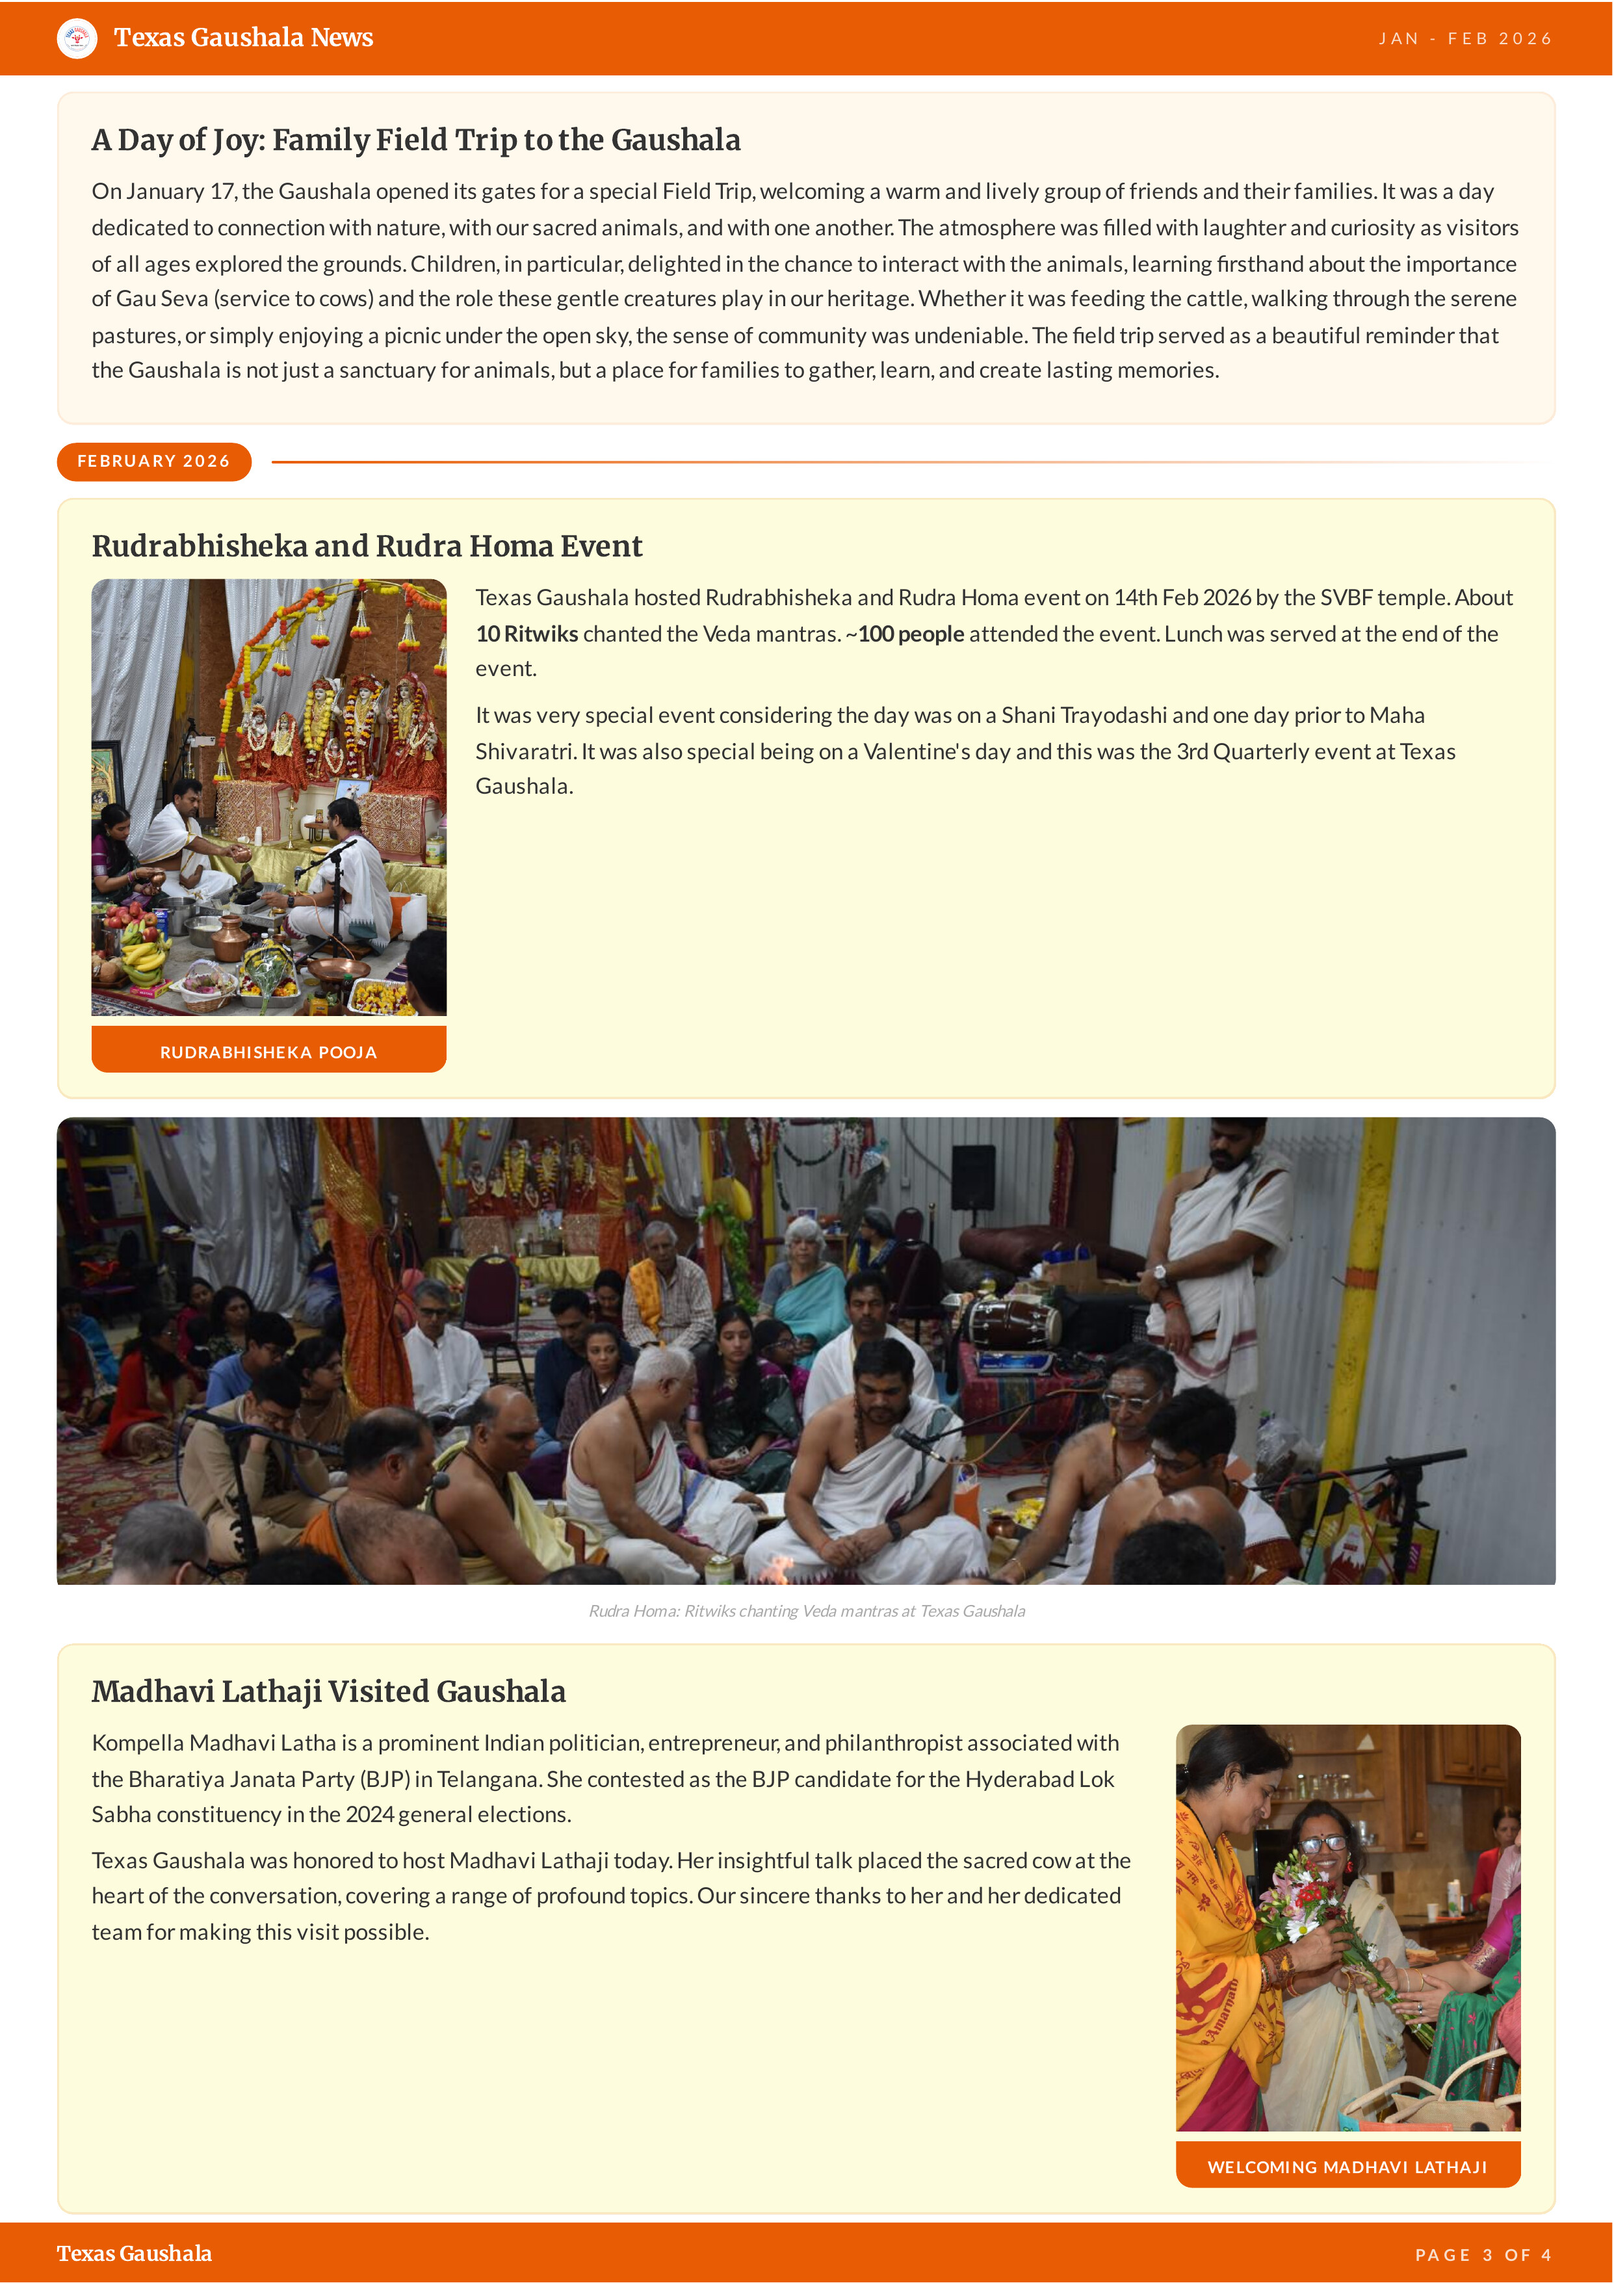
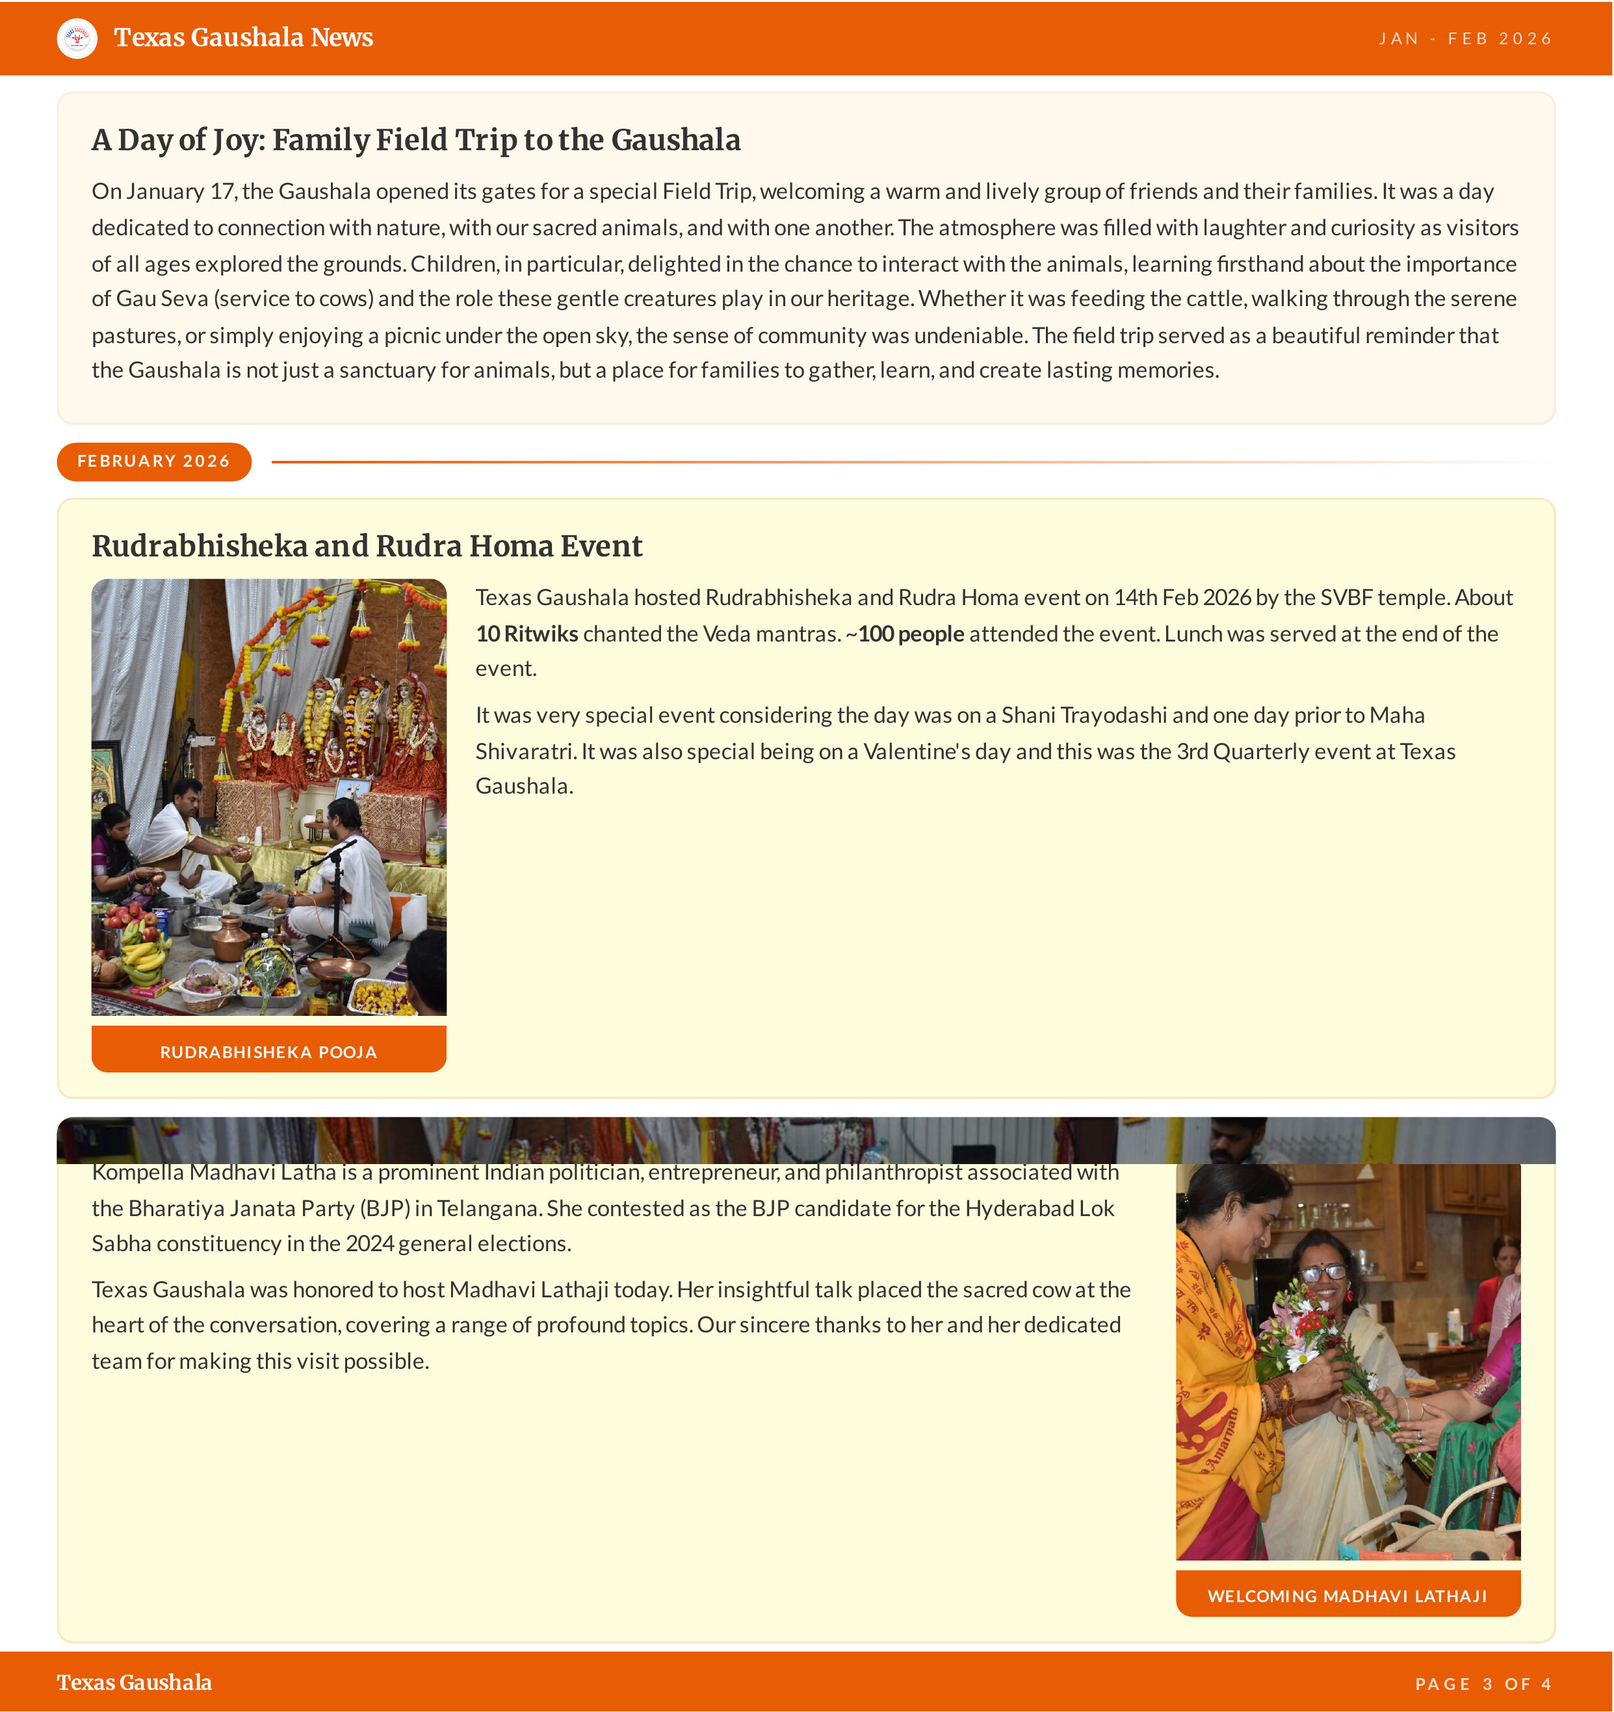
fix: remove Rudra group photo from page 3, crop image, reposition all overlays

diff --git a/index.html b/index.html
@@ -158,35 +158,33 @@ The morning was dedicated to the time-honored tradition of Gau Pooja. Members of
   <img class="bg" src="images_new/page-3.jpg">
 
   <!-- P3 Images -->
-  <div class="iz" id="img-logo-3" data-label="Logo P3" style="left:1.5%;top:0.4%;width:2.5%;height:2.5%;" onclick="si(this)"><span class="lb">Logo</span></div>
-  <div class="iz" id="img-rudra-ceremony" data-label="Rudra Ceremony" style="left:4%;top:25.5%;width:25%;height:20%;" onclick="si(this)"><span class="lb">Rudra Ceremony</span></div>
-  <div class="iz" id="img-rudra-group" data-label="Rudra Homa Group" style="left:2.5%;top:51%;width:95%;height:25%;" onclick="si(this)"><span class="lb">Rudra Group</span></div>
-  <div class="iz" id="img-madhavi-welcome" data-label="Madhavi Welcome" style="left:69%;top:81%;width:25%;height:14%;" onclick="si(this)"><span class="lb">Madhavi Welcome</span></div>
+  <div class="iz" id="img-logo-3" data-label="Logo P3" style="left:1.5%;top:0.5%;width:3%;height:3.5%;" onclick="si(this)"><span class="lb">Logo</span></div>
+  <div class="iz" id="img-rudra-ceremony" data-label="Rudra Ceremony" style="left:4%;top:34%;width:25%;height:27%;" onclick="si(this)"><span class="lb">Rudra Ceremony</span></div>
+  <div class="iz" id="img-madhavi-welcome" data-label="Madhavi Welcome" style="left:69%;top:73%;width:25%;height:19%;" onclick="si(this)"><span class="lb">Madhavi Welcome</span></div>
 
   <!-- P3 Text -->
-  <div class="tz" contenteditable="true" style="left:4.5%;top:0.7%;width:20%;height:2%;font-size:12px;font-weight:700;">Texas Gaushala News</div>
-  <div class="tz" contenteditable="true" style="left:82%;top:0.7%;width:16%;height:1.5%;font-size:8px;letter-spacing:2px;text-align:right;">JAN - FEB 2026</div>
-  <div class="tz" contenteditable="true" style="left:3%;top:5%;width:58%;height:2.5%;font-size:16px;font-weight:700;font-family:Georgia,serif;">A Day of Joy: Family Field Trip to the Gaushala</div>
-  <div class="tz" contenteditable="true" style="left:3%;top:7.5%;width:58%;height:11%;font-size:8.5px;line-height:1.55;font-family:Georgia,serif;">On January 17, the Gaushala opened its gates for a special Field Trip, welcoming a warm and lively group of friends and their families. It was a day dedicated to connection with nature, with our sacred animals, and with one another. The atmosphere was filled with laughter and curiosity as visitors of all ages explored the grounds. Children, in particular, delighted in the chance to interact with the animals, learning firsthand about the importance of Gau Seva (service to cows) and the role these gentle creatures play in our heritage. Whether it was feeding the cattle, walking through the serene pastures, or simply enjoying a picnic under the open sky, the sense of community was undeniable. The field trip served as a beautiful reminder that the Gaushala is not just a sanctuary for animals, but a place for families to gather, learn, and create lasting memories.</div>
+  <div class="tz" contenteditable="true" style="left:4.5%;top:1%;width:20%;height:3%;font-size:12px;font-weight:700;">Texas Gaushala News</div>
+  <div class="tz" contenteditable="true" style="left:82%;top:1%;width:16%;height:2%;font-size:8px;letter-spacing:2px;text-align:right;">JAN - FEB 2026</div>
+  <div class="tz" contenteditable="true" style="left:3%;top:6.5%;width:58%;height:3.5%;font-size:16px;font-weight:700;font-family:Georgia,serif;">A Day of Joy: Family Field Trip to the Gaushala</div>
+  <div class="tz" contenteditable="true" style="left:3%;top:10%;width:58%;height:15%;font-size:8.5px;line-height:1.55;font-family:Georgia,serif;">On January 17, the Gaushala opened its gates for a special Field Trip, welcoming a warm and lively group of friends and their families. It was a day dedicated to connection with nature, with our sacred animals, and with one another. The atmosphere was filled with laughter and curiosity as visitors of all ages explored the grounds. Children, in particular, delighted in the chance to interact with the animals, learning firsthand about the importance of Gau Seva (service to cows) and the role these gentle creatures play in our heritage. Whether it was feeding the cattle, walking through the serene pastures, or simply enjoying a picnic under the open sky, the sense of community was undeniable. The field trip served as a beautiful reminder that the Gaushala is not just a sanctuary for animals, but a place for families to gather, learn, and create lasting memories.</div>
   <!-- Field Trip photo -->
-  <div class="iz" id="img-field-trip" data-label="Field Trip" style="left:64%;top:4.5%;width:32%;height:14%;border-radius:6px;overflow:hidden;" onclick="si(this)">
+  <div class="iz" id="img-field-trip" data-label="Field Trip" style="left:64%;top:6%;width:32%;height:19%;border-radius:6px;overflow:hidden;" onclick="si(this)">
     <img class="rp" src="images_new/field-trip.jpg" style="width:100%;height:100%;object-fit:cover;object-position:center top;position:absolute;top:0;left:0;">
     <span class="lb">Field Trip</span>
   </div>
-  <div class="tz" contenteditable="true" style="left:3%;top:19%;width:12%;height:2%;font-size:8px;font-weight:700;letter-spacing:1px;">FEBRUARY 2026</div>
-  <div class="tz" contenteditable="true" style="left:4%;top:22.5%;width:50%;height:2.5%;font-size:16px;font-weight:700;font-family:Georgia,serif;">Rudrabhisheka and Rudra Homa Event</div>
-  <div class="tz" contenteditable="true" style="left:31%;top:25.5%;width:65%;height:12%;font-size:8.5px;line-height:1.55;font-family:Georgia,serif;">Texas Gaushala hosted Rudrabhisheka and Rudra Homa event on 14th Feb 2026 by the SVBF temple. About 10 Ritwiks chanted the Veda mantras. ~100 people attended the event. Lunch was served at the end of the event.
+  <div class="tz" contenteditable="true" style="left:3%;top:25.5%;width:12%;height:3%;font-size:8px;font-weight:700;letter-spacing:1px;">FEBRUARY 2026</div>
+  <div class="tz" contenteditable="true" style="left:4%;top:30%;width:50%;height:3.5%;font-size:16px;font-weight:700;font-family:Georgia,serif;">Rudrabhisheka and Rudra Homa Event</div>
+  <div class="tz" contenteditable="true" style="left:31%;top:34%;width:65%;height:16%;font-size:8.5px;line-height:1.55;font-family:Georgia,serif;">Texas Gaushala hosted Rudrabhisheka and Rudra Homa event on 14th Feb 2026 by the SVBF temple. About 10 Ritwiks chanted the Veda mantras. ~100 people attended the event. Lunch was served at the end of the event.
 
 It was very special event considering the day was on a Shani Trayodashi and one day prior to Maha Shivaratri. It was also special being on a Valentine's day and this was the 3rd Quarterly event at Texas Gaushala.</div>
-  <div class="tz" contenteditable="true" style="left:4%;top:45.5%;width:18%;height:2%;font-size:7px;font-weight:700;letter-spacing:1px;text-align:center;">RUDRABHISHEKA POOJA</div>
-  <div class="tz" contenteditable="true" style="left:25%;top:76.5%;width:50%;height:1.5%;font-size:7px;font-style:italic;text-align:center;">Rudra Homa: Ritwiks chanting Veda mantras at Texas Gaushala</div>
-  <div class="tz" contenteditable="true" style="left:4%;top:79.5%;width:45%;height:2.5%;font-size:16px;font-weight:700;font-family:Georgia,serif;">Madhavi Lathaji Visited Gaushala</div>
-  <div class="tz" contenteditable="true" style="left:4%;top:82.5%;width:62%;height:10%;font-size:8.5px;line-height:1.55;font-family:Georgia,serif;">Kompella Madhavi Latha is a prominent Indian politician, entrepreneur, and philanthropist associated with the Bharatiya Janata Party (BJP) in Telangana. She contested as the BJP candidate for the Hyderabad Lok Sabha constituency in the 2024 general elections.
+  <div class="tz" contenteditable="true" style="left:4%;top:61%;width:18%;height:3%;font-size:7px;font-weight:700;letter-spacing:1px;text-align:center;">RUDRABHISHEKA POOJA</div>
+  <div class="tz" contenteditable="true" style="left:4%;top:66%;width:45%;height:3.5%;font-size:16px;font-weight:700;font-family:Georgia,serif;">Madhavi Lathaji Visited Gaushala</div>
+  <div class="tz" contenteditable="true" style="left:4%;top:70%;width:62%;height:14%;font-size:8.5px;line-height:1.55;font-family:Georgia,serif;">Kompella Madhavi Latha is a prominent Indian politician, entrepreneur, and philanthropist associated with the Bharatiya Janata Party (BJP) in Telangana. She contested as the BJP candidate for the Hyderabad Lok Sabha constituency in the 2024 general elections.
 
 Texas Gaushala was honored to host Madhavi Lathaji today. Her insightful talk placed the sacred cow at the heart of the conversation, covering a range of profound topics. Our sincere thanks to her and her dedicated team for making this visit possible.</div>
-  <div class="tz" contenteditable="true" style="left:69%;top:95%;width:22%;height:2%;font-size:7px;font-weight:700;letter-spacing:1px;text-align:center;">WELCOMING MADHAVI LATHAJI</div>
-  <div class="tz" contenteditable="true" style="left:2%;top:98%;width:12%;height:1.5%;font-size:10px;font-weight:700;">Texas Gaushala</div>
-  <div class="tz" contenteditable="true" style="left:85%;top:98%;width:13%;height:1%;font-size:7px;letter-spacing:2px;text-align:right;">PAGE 3 OF 4</div>
+  <div class="tz" contenteditable="true" style="left:69%;top:93%;width:22%;height:3%;font-size:7px;font-weight:700;letter-spacing:1px;text-align:center;">WELCOMING MADHAVI LATHAJI</div>
+  <div class="tz" contenteditable="true" style="left:2%;top:96.5%;width:12%;height:2%;font-size:10px;font-weight:700;">Texas Gaushala</div>
+  <div class="tz" contenteditable="true" style="left:85%;top:96.5%;width:13%;height:1.5%;font-size:7px;letter-spacing:2px;text-align:right;">PAGE 3 OF 4</div>
 </div>
 
 <!-- ===== PAGE 4 ===== -->
